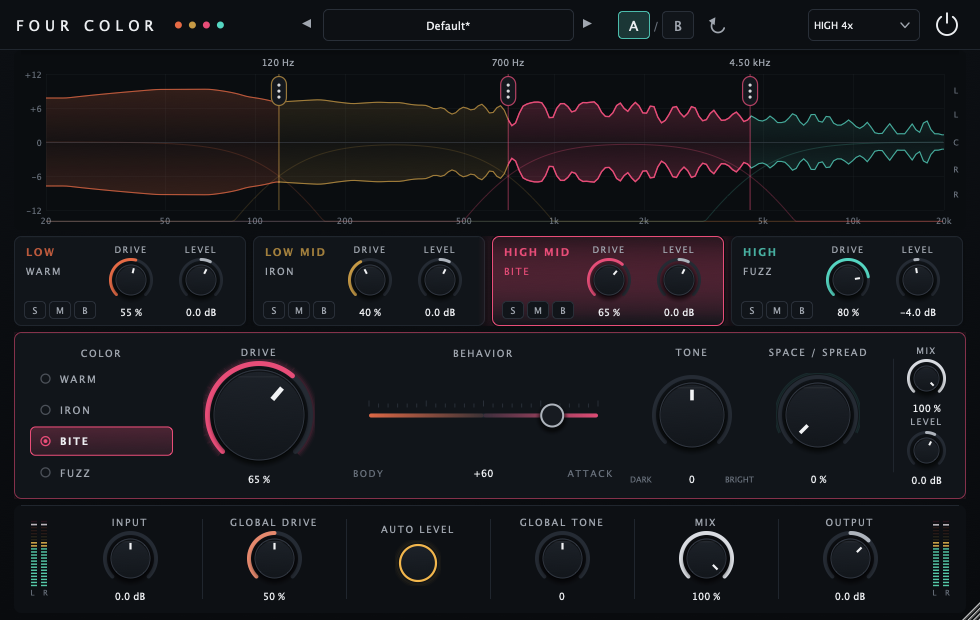
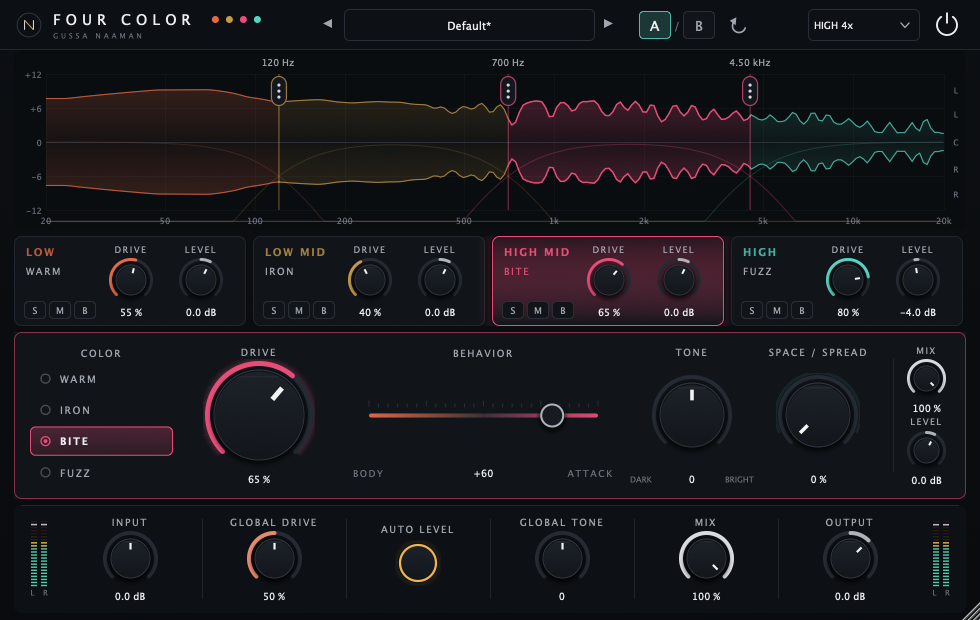
Branding: the Naaman monogram and maker's name in the top bar
Redrawn from Website/assets/logo.svg as JUCE paths on the same 40x40 grid the
SVG uses - a ring with an N built from two uprights and a gold diagonal - so it
scales with the editor instead of being a bitmap. GUSSA NAAMAN sits under the
wordmark in the muted text colour: present on every screenshot, quiet enough
that it never competes with the product name.

Source/Core/ProductInfo.h follows the same convention as the other plug-ins in
this workspace, so nothing hard-codes the product name or maker again.

diff --git a/Source/Ui/TopBar.cpp b/Source/Ui/TopBar.cpp
@@ -1,6 +1,7 @@
 #include "TopBar.h"
 
 #include "../Core/PresetLibrary.h"
+#include "../Core/ProductInfo.h"
 #include "../PluginProcessor.h"
 
 namespace fourcolor::ui
@@ -206,22 +207,60 @@ namespace fourcolor::ui
             g.fillRect (0.0f, bounds.getBottom() + (float) i, bounds.getWidth(), 1.0f);
         }
 
-        //  Wordmark: light, widely spaced, never bold.
+        //  Maker's mark: the Naaman monogram, redrawn from Website/assets/logo.svg
+        //  (a ring with an N built from two uprights and a gold diagonal), then
+        //  the wordmark with the maker's name set quietly beneath it.
+        auto textArea = logoArea.toFloat();
+        {
+            const float d = juce::jmin (26.0f, textArea.getHeight() - 6.0f);
+            auto ring = juce::Rectangle<float> (d, d)
+                            .withCentre ({ textArea.getX() + d * 0.5f, textArea.getCentreY() });
+
+            //  The SVG is drawn on a 40x40 grid; these are its coordinates scaled.
+            const float s = d / 40.0f;
+            const auto at = [&ring, s] (float x, float y)
+            {
+                return juce::Point<float> (ring.getX() + x * s, ring.getY() + y * s);
+            };
+
+            g.setColour (juce::Colour (0xffeae7e0).withAlpha (0.28f));
+            g.drawEllipse (ring.reduced (d * (20.0f - 18.25f) / 40.0f), s);
+
+            g.setColour (juce::Colour (0xffeae7e0));
+            g.drawLine ({ at (13.2f, 27.4f), at (13.2f, 12.6f) }, 1.5f * s);
+            g.drawLine ({ at (26.8f, 27.4f), at (26.8f, 12.6f) }, 1.5f * s);
+
+            g.setColour (juce::Colour (0xffc9a86a));
+            g.drawLine ({ at (13.2f, 12.6f), at (26.8f, 27.4f) }, 1.5f * s);
+
+            textArea.removeFromLeft (d + 11.0f);
+        }
+
+        const auto markFont = captionFont (8.5f).withExtraKerningFactor (0.34f);
+        const float markHeight = 11.0f;
+        auto nameArea = textArea.withTrimmedBottom (markHeight);
+        auto markArea = textArea.removeFromBottom (markHeight);
+
         g.setFont (uiFont (17.0f).withExtraKerningFactor (0.30f));
         g.setColour (tokens::textPrimary);
-        const auto textArea = logoArea.toFloat();
-        g.drawText ("FOUR COLOR", textArea, juce::Justification::centredLeft);
+        g.drawText ("FOUR COLOR", nameArea, juce::Justification::centredLeft);
+
+        const float wordmarkWidth =
+            juce::GlyphArrangement::getStringWidth (g.getCurrentFont(), "FOUR COLOR");
+
+        g.setFont (markFont);
+        g.setColour (tokens::textMuted);
+        g.drawText (productInfo::maker, markArea.withWidth (wordmarkWidth),
+                    juce::Justification::centredLeft);
 
         //  Four band dots after the wordmark.
         const float dotSize = 7.0f;
-        const float dotsX = textArea.getX()
-                          + juce::GlyphArrangement::getStringWidth (g.getCurrentFont(), "FOUR COLOR")
-                          + 16.0f;
+        const float dotsX = textArea.getX() + wordmarkWidth + 16.0f;
         for (int i = 0; i < 4; ++i)
         {
             g.setColour (tokens::band[i]);
             g.fillEllipse (dotsX + (float) i * (dotSize + 7.0f),
-                           textArea.getCentreY() - dotSize * 0.5f, dotSize, dotSize);
+                           nameArea.getCentreY() - dotSize * 0.5f, dotSize, dotSize);
         }
 
         //  The "/" between A and B.
@@ -235,7 +274,7 @@ namespace fourcolor::ui
     {
         auto area = getLocalBounds().reduced (16, 9);
 
-        logoArea = area.removeFromLeft (215);
+        logoArea = area.removeFromLeft (258);
 
         powerButton->setBounds (area.removeFromRight (34));
         area.removeFromRight (10);

diff --git a/Source/Core/ProductInfo.h b/Source/Core/ProductInfo.h
@@ -1,0 +1,17 @@
+// Product-wide identifiers. Nothing else in the codebase should hard-code the
+// product name, maker or version. Same convention as the other plug-ins in this
+// workspace, so the strings a host lists stay consistent across the line.
+
+#pragma once
+
+namespace fourcolor::productInfo
+{
+    inline constexpr const char* name    = "FOUR COLOR";
+
+    //  The company is what a host lists under the manufacturer field; the maker
+    //  is the person, and the two are not written the same way.
+    inline constexpr const char* company = "Naaman";
+    inline constexpr const char* maker   = "GUSSA NAAMAN";
+
+    inline constexpr const char* version = "0.1.0";
+}

diff --git a/outputs/QUESTIONS-FOR-REVIEW-CHAT.md b/outputs/QUESTIONS-FOR-REVIEW-CHAT.md
@@ -1,0 +1,138 @@
+# FOUR COLOR — questions from the implementing engineer
+
+**5 August 2026 · after baseline + Phase 13 · `1c20cfa`**
+
+Baseline verified: **321 checks, 0 failed**; VST3, AU and Standalone all build;
+the two appendices match HEAD exactly (22 files, 0 differences).
+
+**Phase 13 is committed and green: 330 checks, 0 failed, Release and Debug.**
+
+Five things need a decision before or during the phases that follow. Four are
+genuine forks in the directive; one is a request for permission.
+
+---
+
+## 1. REQUEST — a flaky performance test is about to hide real regressions
+
+`analyzer repaint stays under 15% of one core` **fails intermittently on
+unchanged code.** Measured five times each on this machine:
+
+| | range across 5 runs | failed |
+|---|---|---|
+| **Baseline, Phase 13 stashed** | 14.8 – 15.2% | **3 of 5** |
+| With Phase 13 applied | 14.8 – 15.3% | **3 of 5** |
+
+Identical distributions, and Phase 13 touched no UI file. The check straddles
+its own threshold and decides by machine noise.
+
+Rule 9 says run every test after every phase. Rule 10 says never lower a
+threshold to make a test pass. Both are right — but with one test failing ~60%
+of the time at random, **I cannot tell a real regression from noise for the
+eight phases still to come.**
+
+**Request:** permission to change the *measurement* only — take the fastest of
+N short samples instead of one long one — while leaving the **15% threshold
+exactly as it is**. The fastest sample is the one least contaminated by other
+work on the machine, and it cannot flatter a genuinely slow renderer.
+
+**This is not lowering a threshold.** If it still reads as too close to rule 10,
+say so and I will leave the test alone and report its state honestly after every
+phase instead.
+
+---
+
+## 2. Phase 14.2 — the BITE brief contains a real internal conflict
+
+The prescribed formula, applied to the actual band edges:
+
+| band | range | centre | `biteEmphasisHz` |
+|---|---|---|---|
+| **LOW** | 20–120 Hz | 49 Hz | **76.7 Hz** |
+| LOW MID | 120–700 | 290 | 450 |
+| HIGH MID | 700–4500 | 1775 | 2826 |
+| HIGH | 4500–16000 | 8485 | 8000 (clamped) |
+
+The directive also says, in the same section:
+
+- keep the **partial** de-emphasis, and
+- the **30–60 Hz fundamental must not move more than 1 dB** beyond planned
+  compensation.
+
+Those pull against each other. Pre-emphasis at 76.7 Hz attenuates 30–60 Hz going
+into the shaper; if the de-emphasis is only partial, that attenuation is by
+definition not fully undone. Partial de-emphasis is exactly what makes BITE
+sound forward, so making it complete in LOW changes the colour's identity there.
+
+**Question:** in LOW specifically, which wins?
+
+- **(a)** Keep the partial de-emphasis. BITE stays BITE; accept that the
+  fundamental moves and widen that acceptance criterion for LOW only.
+- **(b)** Make the de-emphasis complete in LOW only. The fundamental is
+  protected; BITE in the sub is a different character from BITE elsewhere.
+- **(c)** Compensate the fundamental with a measured static gain so both
+  criteria are met, accepting that the compensation is tuned, not derived.
+
+I will implement **(a)** and report the measured fundamental shift if no answer
+arrives — it preserves the engine's identity, which the brief treats as the
+higher goal ("השיניים של BITE ו־FUZZ חייבות להישאר זמינות").
+
+---
+
+## 3. Phase 18 — the render matrix as written is 2,160 files
+
+10 sources × 4 colours × 3 drives × 3 behaviors × 2 Space × 3 crossovers.
+The directive also says not to produce unnecessary duplicates, without saying
+which axes to collapse.
+
+**Proposed rule, which I will follow unless told otherwise:**
+
+| source group | colours | drive | behavior | Space | crossover |
+|---|---|---|---|---|---|
+| sub sine, 808, rolling bass, kick | all 4 | 20/50/80 | BODY/N/ATTACK | 0/30 | 80/120/180 |
+| drum loop, full electronic loop | all 4 | 50 | BODY/ATTACK | 0/30 | 120 |
+| pluck, lead, pad, vocal | all 4 | 50 | Neutral | 0 | 120 |
+
+≈ **310 files** rather than 2,160, with the full sweep kept exactly where the
+directive says the problem is — the low end — and the melodic material reduced to
+what actually distinguishes the four colours.
+
+**Question:** accept this, or specify a different reduction?
+
+---
+
+## 4. Phase 21 — `pluginval` is not installed on this machine
+
+Confirmed absent: not on `PATH`, not in `/Applications`. The directive says
+report it and do not install without approval. **Reporting it.**
+
+pluginval is free and open source (Tracktion). **Question:** install it, or ship
+the Test Candidate with `auval` only and mark pluginval as not run?
+
+---
+
+## 5. Installation — two facts the directive should know
+
+- **An AU is already installed** at
+  `~/Library/Audio/Plug-Ins/Components/FourColor.component`, and the VST3
+  directory exists. Both will be backed up with a timestamp before anything is
+  replaced, per rule 14.
+- **Cubase 15 is installed** at `/Applications/Cubase 15.app`, and **has still
+  never been opened with this plug-in.** Nothing in this round changes that: I
+  can install, but I cannot claim a Cubase result I have not seen. The status
+  line will read `CUBASE macOS NOT VERIFIED` until the user reports back.
+
+Windows has never been compiled here. It will be marked
+`WINDOWS NOT VERIFIED` / `CUBASE WINDOWS NOT VERIFIED` unless a CI run is
+actually executed and observed.
+
+---
+
+## WHAT I AM DOING WHILE WAITING
+
+Not blocking on any of this. Proceeding in order — Phase 14 (DC blocker, BITE
+emphasis, FUZZ gate, stereo linking, and the measurement-only IRON/Tone study),
+then 15, 16, 17 — with a separate commit per phase and a full Release+Debug test
+run after each.
+
+The four questions above only change **how** a phase is finished, not whether it
+starts. Question 1 changes how much I can trust the verification of all of them.
